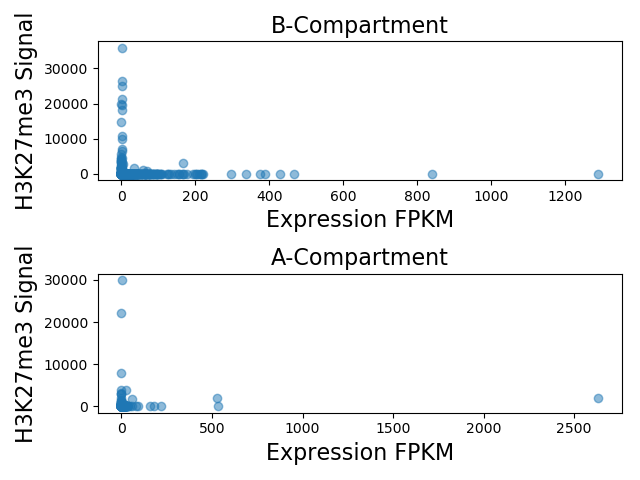
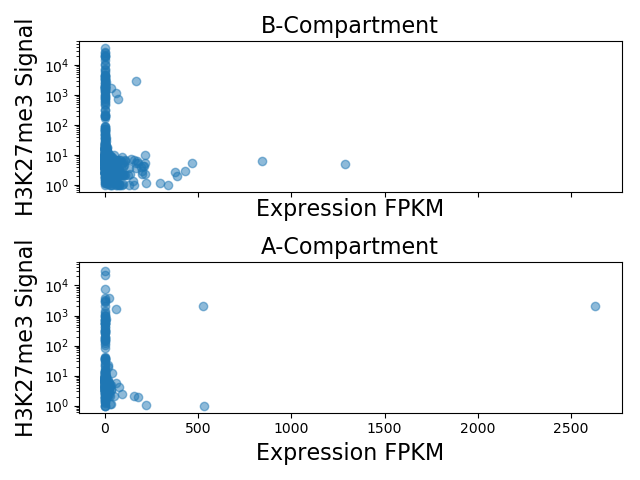
fix with log scale

diff --git a/week9-assignment/expression.py b/week9-assignment/expression.py
@@ -28,7 +28,7 @@ for it in range(0, len(neg_start)):
     neg_h3k27me3.append(val) 
 
 # Plot expression and H3K27me3
-fig, ax = plt.subplots(2)
+fig, ax = plt.subplots(2, sharex = True, sharey = True)
 ax[0].scatter(pos_expression, pos_h3k27me3, alpha=0.5)
 ax[1].scatter(neg_expression, neg_h3k27me3, alpha=0.5)
 ax[0].set_title("B-Compartment", fontsize = 16)
@@ -37,5 +37,7 @@ ax[0].set_xlabel("Expression FPKM", fontsize = 16)
 ax[1].set_xlabel("Expression FPKM", fontsize = 16)
 ax[0].set_ylabel("H3K27me3 Signal", fontsize = 16)
 ax[1].set_ylabel("H3K27me3 Signal", fontsize = 16)
+ax[0].set_yscale('log')
+ax[1].set_yscale('log')
 plt.tight_layout()
 plt.savefig('expressionH3K27me3.png')

diff --git a/week9-assignment/violin.py b/week9-assignment/violin.py
@@ -9,6 +9,7 @@ neg = np.genfromtxt('negative_WT_fpkm.bed', usecols=4)
 fig, ax = plt.subplots()
 part = ax.violinplot(pos, positions=[0], showmeans=False, showmedians=False, showextrema=False)
 part2 = ax.violinplot(neg, positions=[1], showmeans=False, showmedians=False, showextrema=False)
+ax.set_yscale('log')
 ax.set_xticks([0, 1])
 ax.set_xticklabels(['B-compartment (positive)', 'A-compartment (negative)'])
 for pc in part['bodies']:
